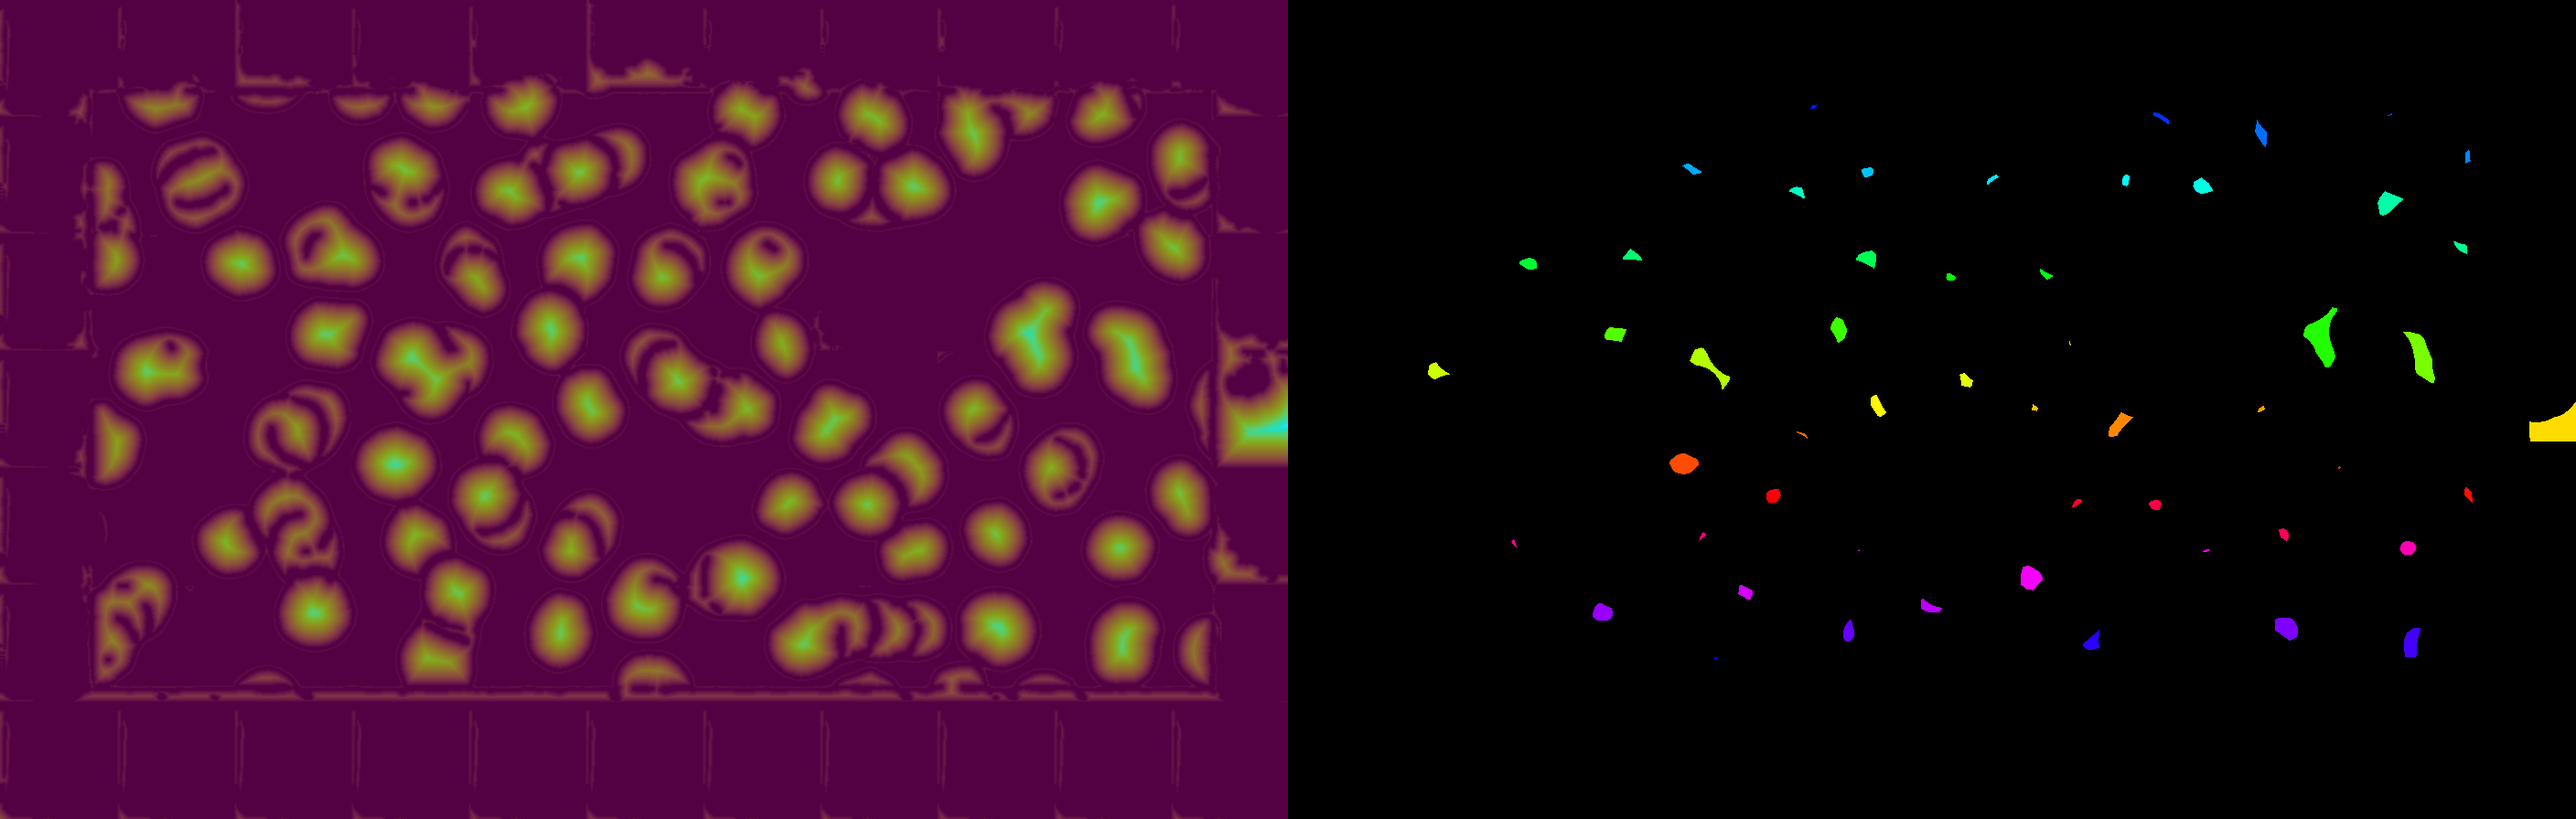
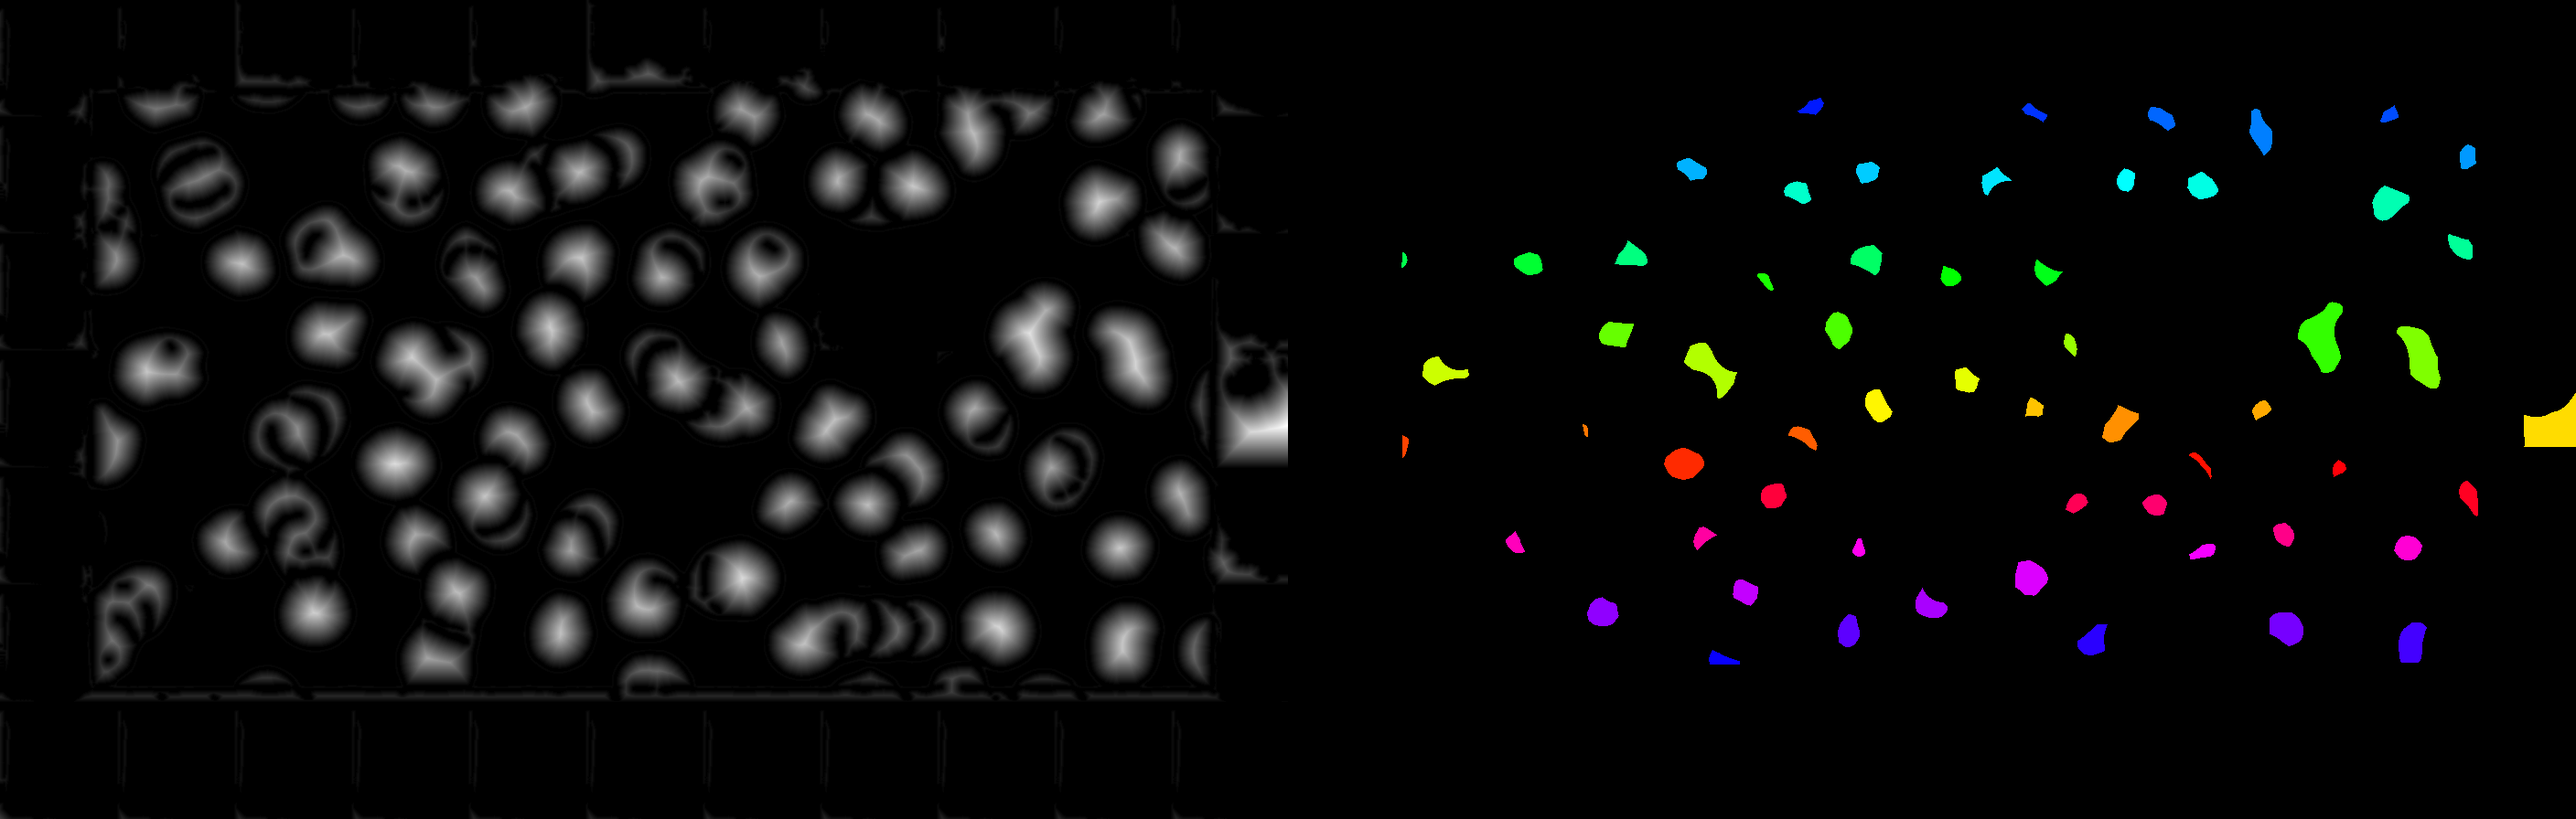
Updated euclidean distance transform (latest results)

diff --git a/src/run.py b/src/run.py
@@ -355,7 +355,7 @@ def distance_transform(img='edge.png'):
     # img = normalize(img)
 
     # saving image after Component Labeling
-    plt.imsave('output/distance_transform.png', img)
+    plt.imsave('output/distance_transform.png', img, cmap='gray')
 
 
 # main program
